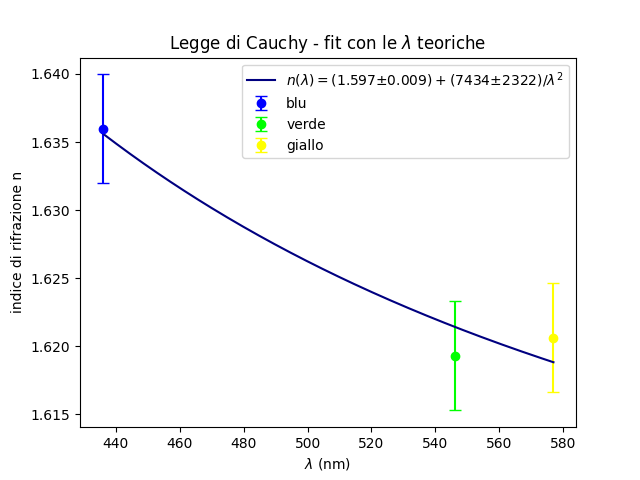
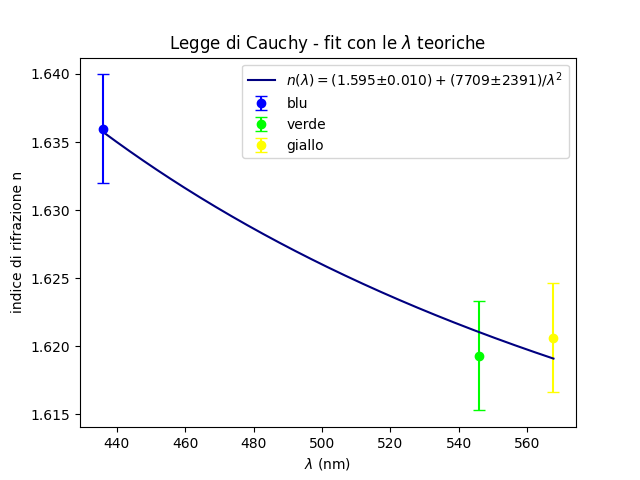
cacca

diff --git a/mercurio/cauchy.py b/mercurio/cauchy.py
@@ -31,7 +31,7 @@ if __name__ == "__main__" :
 
     n = np.array([1.63597, 1.61930, 1.62064]) #blu verde giallo
     sigma_n = np.array([0.004, 0.004, 0.004]) #blu verde giallo
-    lamb_theoretical = np.array([435.8328, 546.0735, 576.9598]) #blu verde giallo
+    lamb_theoretical = np.array([435.8328, 546.0735, 567.7105]) #blu verde giallo
 
     #oss: λ_blu/violetto = [365.0153, 365.4836, 366.3279, 404.6563] (violetto); [433.9223, 434.7494, !435.8328!] (blu)
     #     λ_verde = [546.0735]
